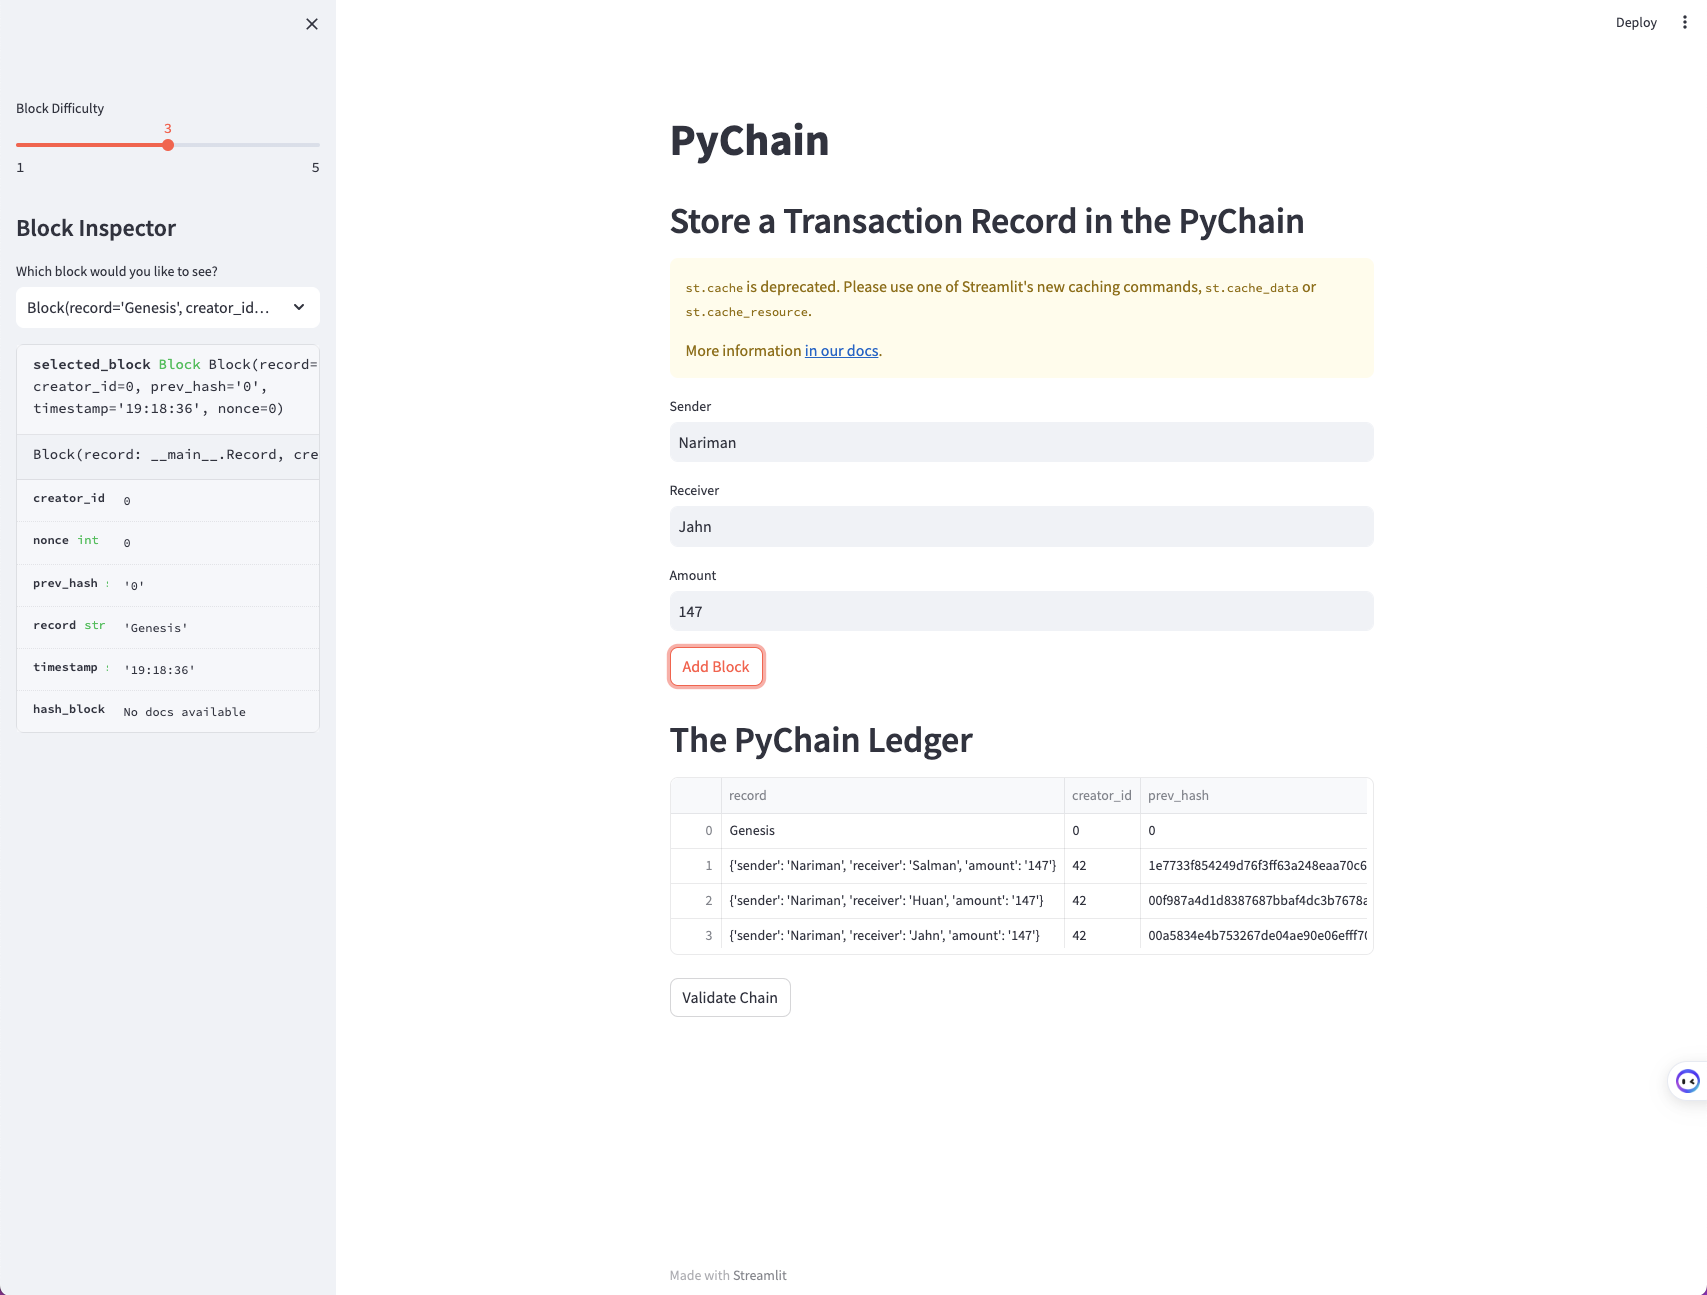
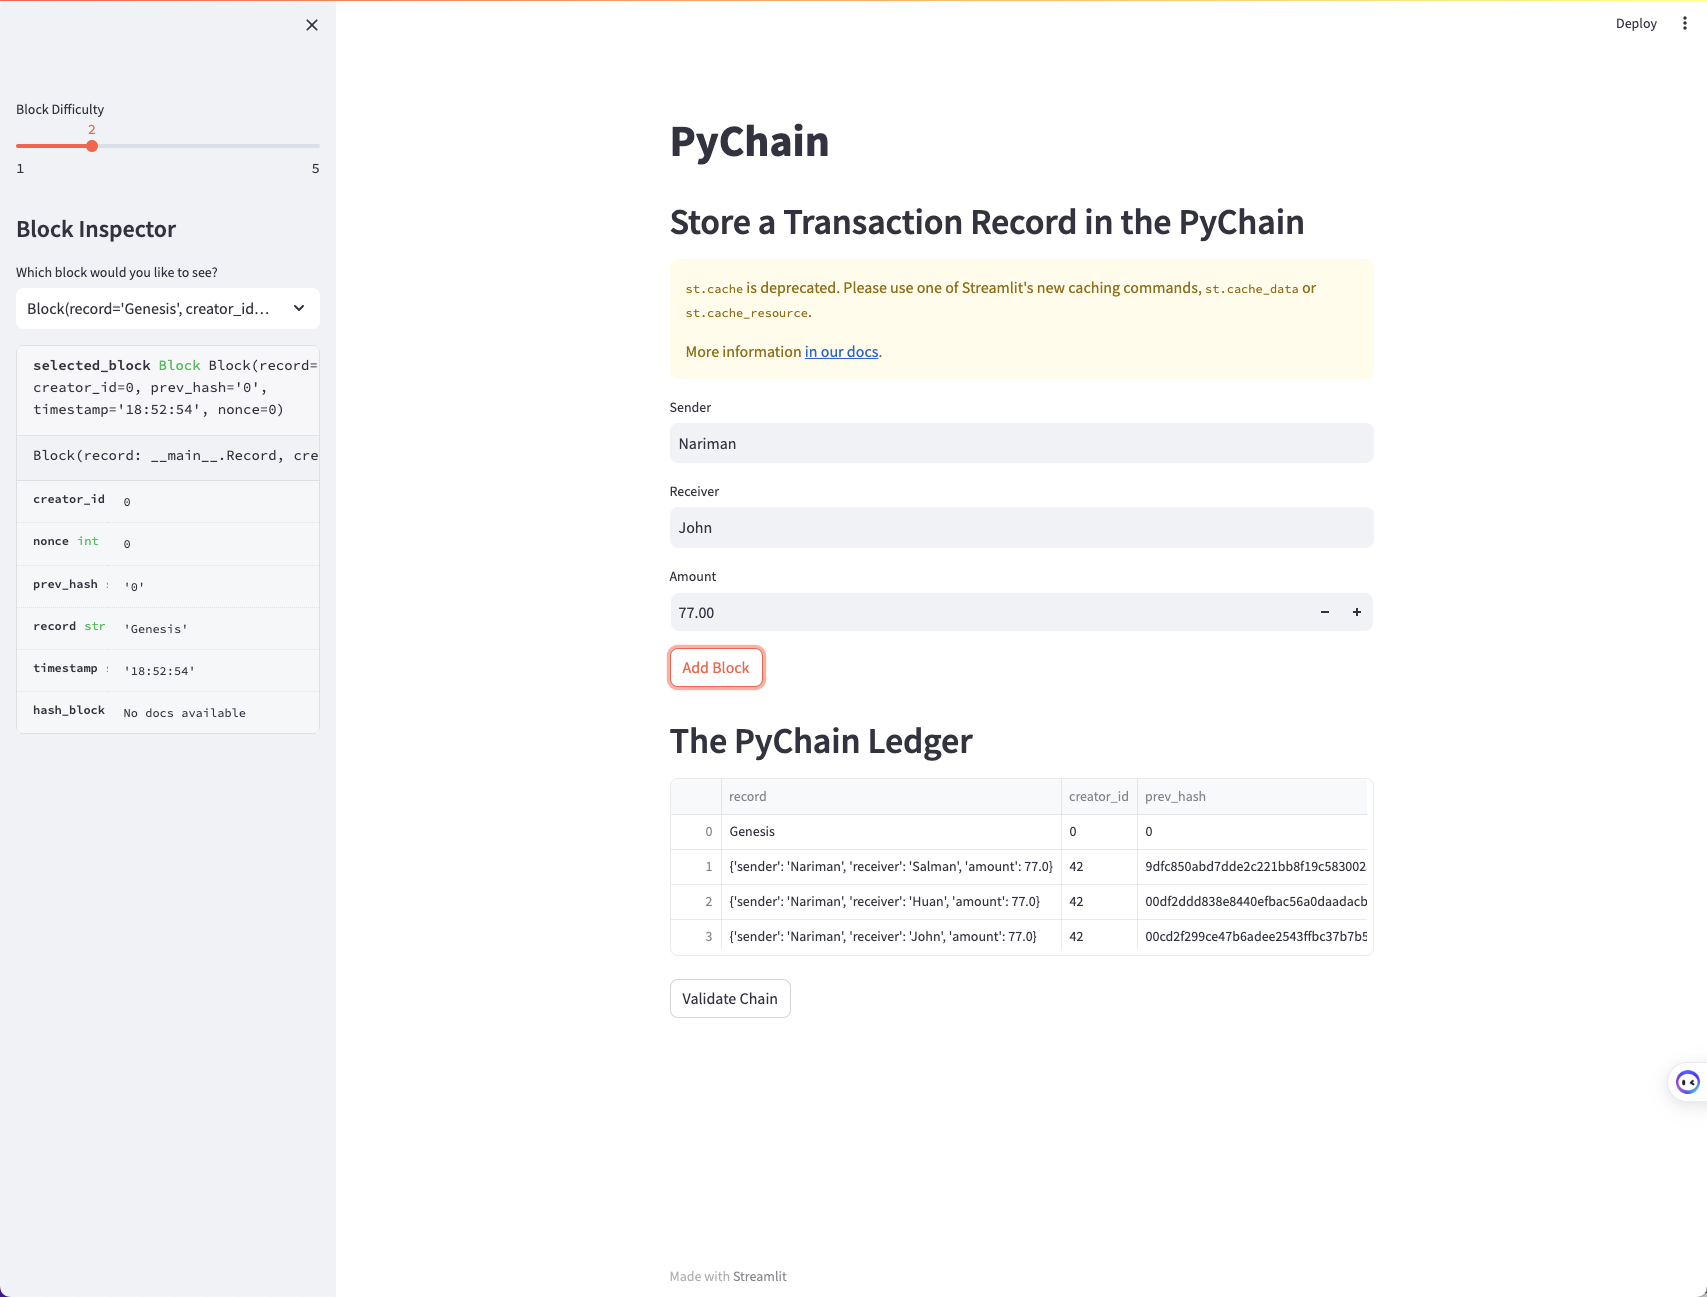
MODULE 18 - PyChain Ledger

diff --git a/code/pychain.py b/code/pychain.py
@@ -25,7 +25,7 @@
 # Imports
 import streamlit as st
 from dataclasses import dataclass
-from typing import List
+from typing import Any, List
 import datetime as datetime
 import pandas as pd
 import hashlib
@@ -46,11 +46,8 @@ import hashlib
 # Note that you’ll use this new `Record` class as the data type of your `record` attribute in the next section.
 
 
-# @TODO
 # Create a Record Data Class that consists of the `sender`, `receiver`, and
 # `amount` attributes
-# YOUR CODE HERE
-
 @dataclass
 class Record:
     sender: str
@@ -72,7 +69,6 @@ class Record:
 @dataclass
 class Block:
 
-    # @TODO
     # Rename the `data` attribute to `record`, and set the data type to `Record`
     record: Record
 
@@ -175,20 +171,19 @@ pychain = setup()
 
 # @TODO:
 # Add an input area where you can get a value for `sender` from the user.
-# YOUR CODE HERE
 sender = st.text_input("Sender")
 
 # @TODO:
 # Add an input area where you can get a value for `receiver` from the user.
-# YOUR CODE HERE
 receiver = st.text_input("Receiver")
 
 # @TODO:
 # Add an input area where you can get a value for `amount` from the user.
-# YOUR CODE HERE
-amount = st.text_input("Amount")
+amount = st.number_input("Amount", min_value=0.0)
+
 
 if st.button("Add Block"):
+    new_record = Record(sender, receiver, amount)
     prev_block = pychain.chain[-1]
     prev_block_hash = prev_block.hash_block()
 
@@ -197,7 +192,7 @@ if st.button("Add Block"):
     # which is set equal to a `Record` that contains the `sender`, `receiver`,
     # and `amount` values
     new_block = Block(
-        record=Record(sender=sender, receiver=receiver, amount=amount),
+        record=new_record,
         creator_id=42,
         prev_hash=prev_block_hash
     )
